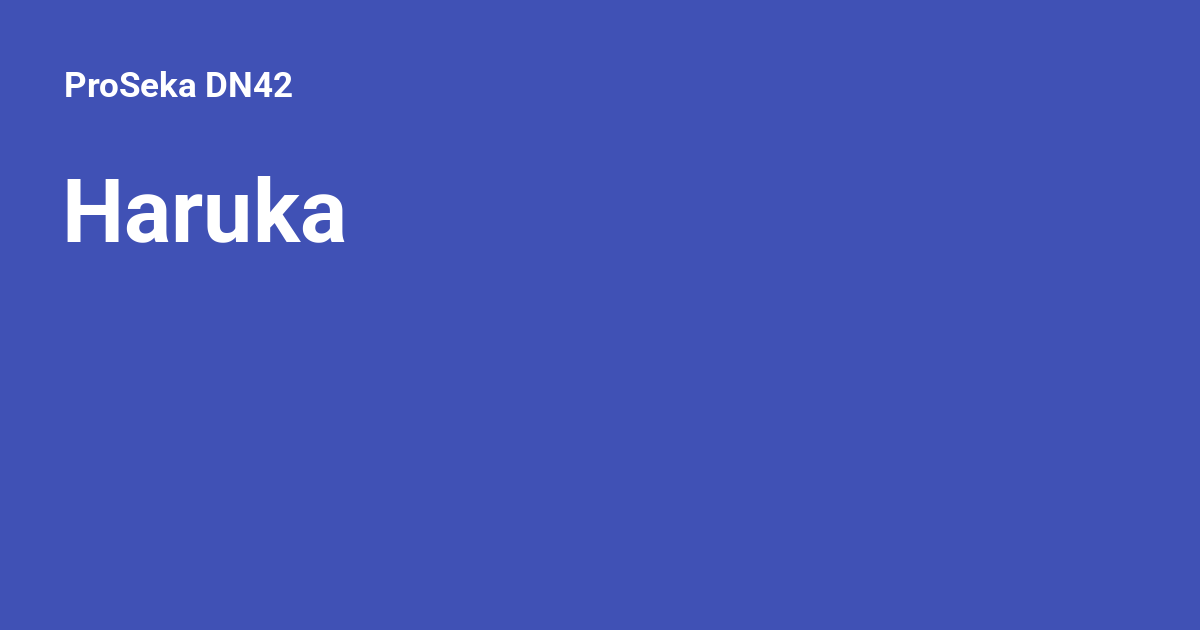
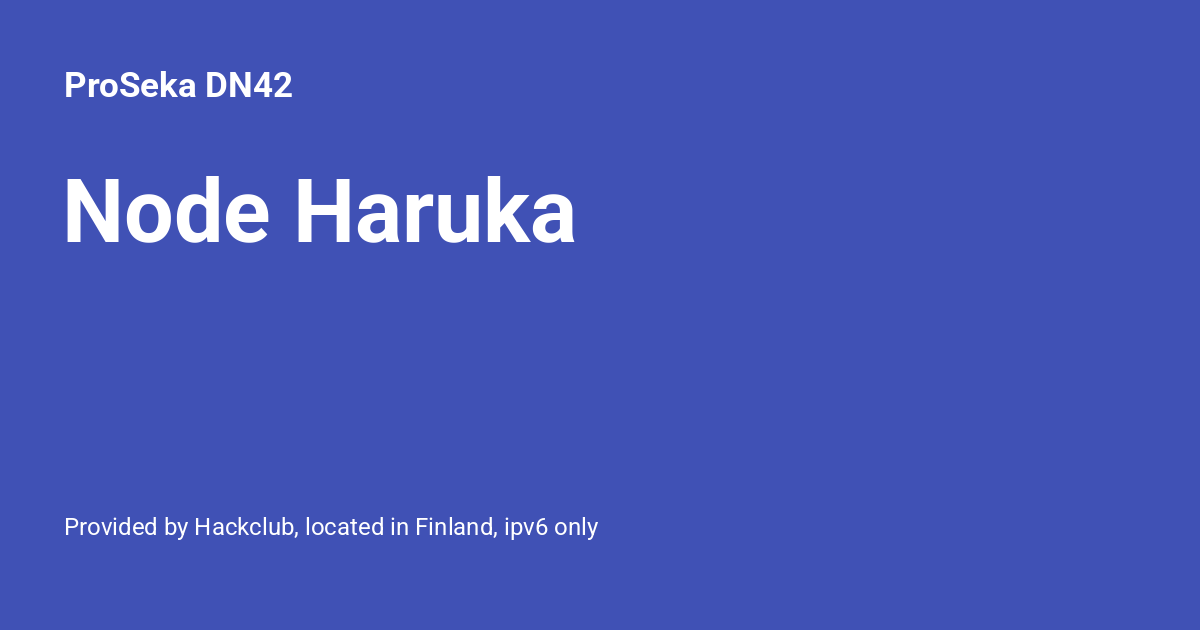
Deployed 20f0b73 with ProperDocs version: 1.6.7

Changed region(s): [[0.0617, 0.2714, 0.4933, 0.3921], [0.0617, 0.8143, 0.4933, 0.8746]]

diff --git a/Internal/Customer Endpoints/index.html b/Internal/Customer Endpoints/index.html
@@ -60,6 +60,7 @@
   
 <meta property="og:type" content="website" />
 <meta property="og:title" content="Customer Endpoints - ProSeka DN42" />
+<meta property="og:description" content="Provides end connectivity to customers" />
 <meta property="og:image" content="https://docs.proseka.darrenmc.dev/assets/images/social/Internal/Customer%20Endpoints.png" />
 <meta property="og:image:type" content="image/png" />
 <meta property="og:image:width" content="1200" />
@@ -67,6 +68,7 @@
 <meta property="og:url" content="https://docs.proseka.darrenmc.dev/Internal/Customer%20Endpoints/" />
 <meta property="twitter:card" content="summary_large_image" />
 <meta property="twitter:title" content="Customer Endpoints - ProSeka DN42" />
+<meta property="twitter:description" content="Provides end connectivity to customers" />
 <meta property="twitter:image" content="https://docs.proseka.darrenmc.dev/assets/images/social/Internal/Customer%20Endpoints.png" />
 </head>
   
@@ -602,6 +604,9 @@
 
 
 
+
+  
+  
 
 
 

diff --git a/Services/resolvers/index.html b/Services/resolvers/index.html
@@ -58,6 +58,7 @@
   
 <meta property="og:type" content="website" />
 <meta property="og:title" content="DNS Resolvers - ProSeka DN42" />
+<meta property="og:description" content="Servers that resolve DN42 names and ip address PTR" />
 <meta property="og:image" content="https://docs.proseka.darrenmc.dev/assets/images/social/Services/resolvers.png" />
 <meta property="og:image:type" content="image/png" />
 <meta property="og:image:width" content="1200" />
@@ -65,6 +66,7 @@
 <meta property="og:url" content="https://docs.proseka.darrenmc.dev/Services/resolvers/" />
 <meta property="twitter:card" content="summary_large_image" />
 <meta property="twitter:title" content="DNS Resolvers - ProSeka DN42" />
+<meta property="twitter:description" content="Servers that resolve DN42 names and ip address PTR" />
 <meta property="twitter:image" content="https://docs.proseka.darrenmc.dev/assets/images/social/Services/resolvers.png" />
 </head>
   
@@ -673,6 +675,9 @@
 
 
 
+
+  
+  
 
 
 

diff --git a/Services/index.html b/Services/index.html
@@ -60,6 +60,7 @@
   
 <meta property="og:type" content="website" />
 <meta property="og:title" content="Services - ProSeka DN42" />
+<meta property="og:description" content="Services that are hosted by ProSeka that is for public use" />
 <meta property="og:image" content="https://docs.proseka.darrenmc.dev/assets/images/social/Services/index.png" />
 <meta property="og:image:type" content="image/png" />
 <meta property="og:image:width" content="1200" />
@@ -67,6 +68,7 @@
 <meta property="og:url" content="https://docs.proseka.darrenmc.dev/Services/" />
 <meta property="twitter:card" content="summary_large_image" />
 <meta property="twitter:title" content="Services - ProSeka DN42" />
+<meta property="twitter:description" content="Services that are hosted by ProSeka that is for public use" />
 <meta property="twitter:image" content="https://docs.proseka.darrenmc.dev/assets/images/social/Services/index.png" />
 </head>
   
@@ -605,6 +607,9 @@
 
 
 
+
+  
+  
 
 
 

diff --git a/Nodes/Haruka/index.html b/Nodes/Haruka/index.html
@@ -60,6 +60,7 @@
   
 <meta property="og:type" content="website" />
 <meta property="og:title" content="Haruka - ProSeka DN42" />
+<meta property="og:description" content="Provided by Hackclub, located in Finland, ipv6 only" />
 <meta property="og:image" content="https://docs.proseka.darrenmc.dev/assets/images/social/Nodes/Haruka.png" />
 <meta property="og:image:type" content="image/png" />
 <meta property="og:image:width" content="1200" />
@@ -67,6 +68,7 @@
 <meta property="og:url" content="https://docs.proseka.darrenmc.dev/Nodes/Haruka/" />
 <meta property="twitter:card" content="summary_large_image" />
 <meta property="twitter:title" content="Haruka - ProSeka DN42" />
+<meta property="twitter:description" content="Provided by Hackclub, located in Finland, ipv6 only" />
 <meta property="twitter:image" content="https://docs.proseka.darrenmc.dev/assets/images/social/Nodes/Haruka.png" />
 </head>
   
@@ -720,6 +722,9 @@
 
 
 
+
+  
+  
 
 
 

diff --git a/Internal/index.html b/Internal/index.html
@@ -60,6 +60,7 @@
   
 <meta property="og:type" content="website" />
 <meta property="og:title" content="Internal - ProSeka DN42" />
+<meta property="og:description" content="Services that powers ProSeka" />
 <meta property="og:image" content="https://docs.proseka.darrenmc.dev/assets/images/social/Internal/index.png" />
 <meta property="og:image:type" content="image/png" />
 <meta property="og:image:width" content="1200" />
@@ -67,6 +68,7 @@
 <meta property="og:url" content="https://docs.proseka.darrenmc.dev/Internal/" />
 <meta property="twitter:card" content="summary_large_image" />
 <meta property="twitter:title" content="Internal - ProSeka DN42" />
+<meta property="twitter:description" content="Services that powers ProSeka" />
 <meta property="twitter:image" content="https://docs.proseka.darrenmc.dev/assets/images/social/Internal/index.png" />
 </head>
   
@@ -605,6 +607,9 @@
 
 
 
+
+  
+  
 
 
 

diff --git a/Nodes/index.html b/Nodes/index.html
@@ -60,6 +60,7 @@
   
 <meta property="og:type" content="website" />
 <meta property="og:title" content="Nodes - ProSeka DN42" />
+<meta property="og:description" content="Peering are welcomed!" />
 <meta property="og:image" content="https://docs.proseka.darrenmc.dev/assets/images/social/Nodes/index.png" />
 <meta property="og:image:type" content="image/png" />
 <meta property="og:image:width" content="1200" />
@@ -67,6 +68,7 @@
 <meta property="og:url" content="https://docs.proseka.darrenmc.dev/Nodes/" />
 <meta property="twitter:card" content="summary_large_image" />
 <meta property="twitter:title" content="Nodes - ProSeka DN42" />
+<meta property="twitter:description" content="Peering are welcomed!" />
 <meta property="twitter:image" content="https://docs.proseka.darrenmc.dev/assets/images/social/Nodes/index.png" />
 </head>
   
@@ -604,6 +606,9 @@
 
 
 
+
+  
+  
 
 
 
